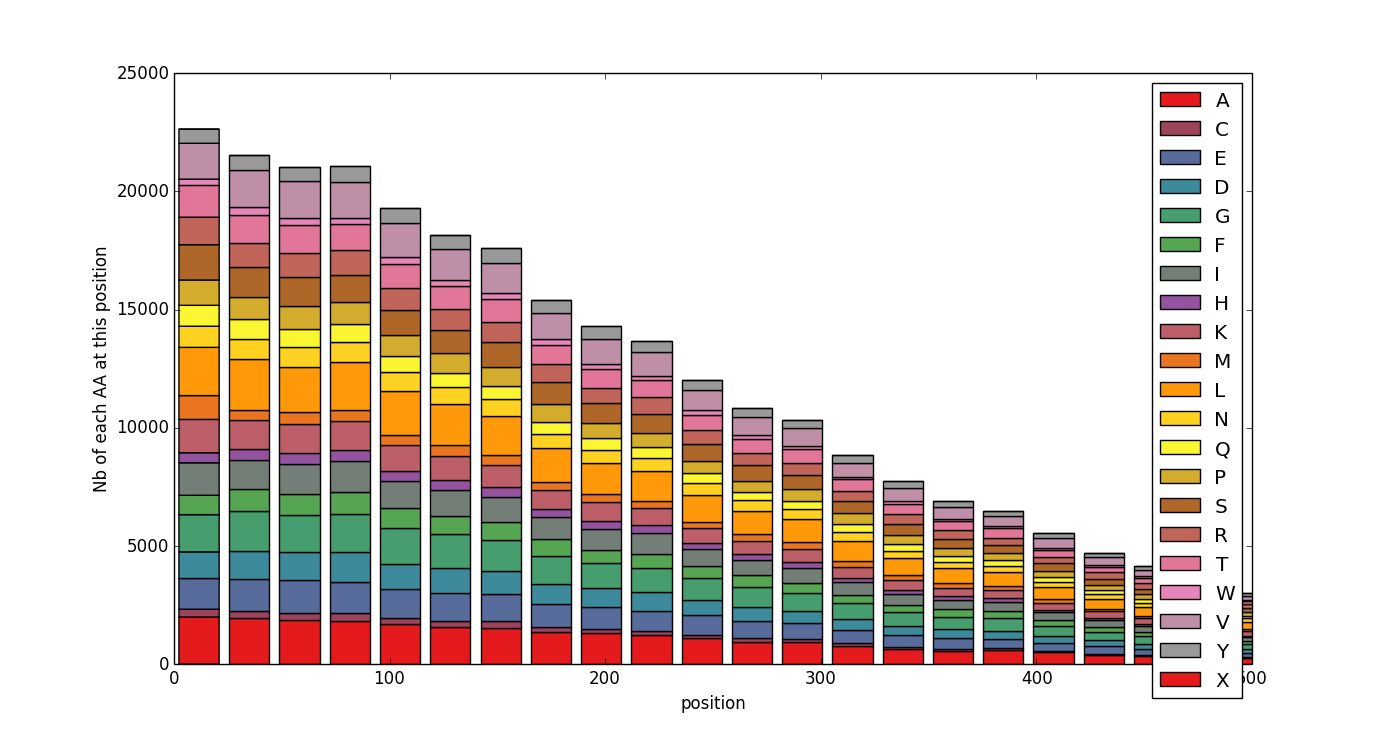
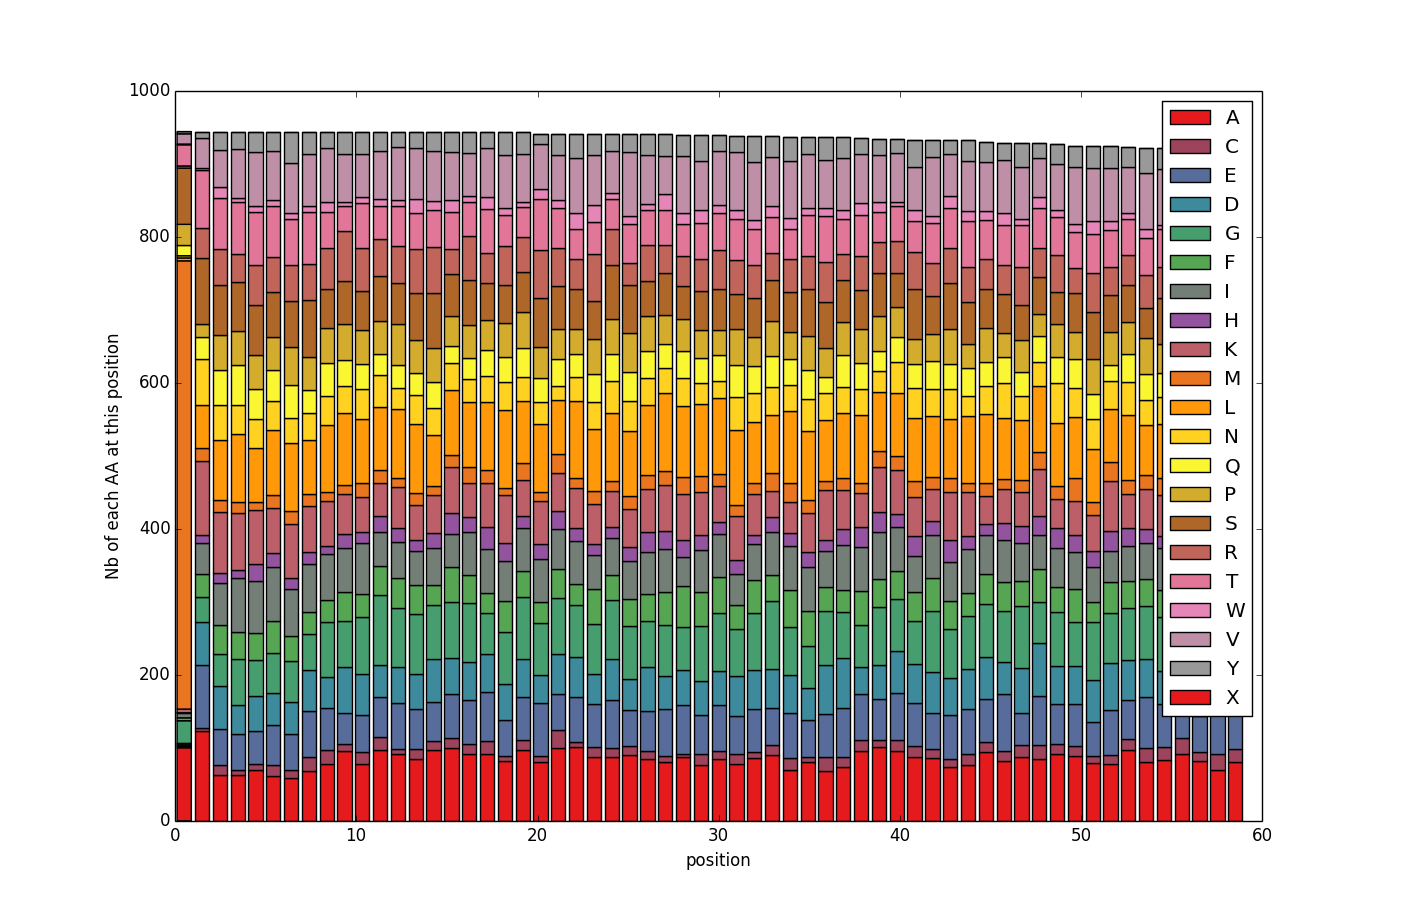
60 first amino acid of nonpeptide histogram

diff --git a/visualisation.py b/visualisation.py
@@ -29,7 +29,7 @@ def get_peptides(data):
 	# peptide_aa_seqs = np.array(peptide_aa_seqs)
 	indices = []
 	for seq in peptide_aa_seqs:
-		indices += [[idx,aa] for (idx,aa) in enumerate(seq)]
+		indices += [[idx,aa] for (idx,aa) in enumerate(seq[0:60])]
 	aa_dir = {}
 	for x in indices:
 		if x[1] not in aa_dir:
@@ -38,7 +38,7 @@ def get_peptides(data):
 
 	colormap = plt.cm.Set1 #I suggest to use nipy_spectral, Set1,Paired
 	plt.gca().set_color_cycle([colormap(i) for i in np.linspace(0, 1,20)])
-	plt.hist(aa_dir.values(), bins=500, histtype='bar', stacked=True, label=aa_dir.keys())
+	plt.hist(aa_dir.values(), bins=60, histtype='bar', stacked=True, label=aa_dir.keys())
 	plt.legend()
 	plt.xlim([0,60])
 	plt.xlabel('position')
@@ -88,8 +88,8 @@ if __name__ == '__main__':
 
 	    # cleavage_position_hist(peptide_trainingdata)
 	    # get_peptides(peptide_trainingdata)
-	    # get_peptides(nonpeptide_trainingdata)
+	    get_peptides(nonpeptide_trainingdata)
 	    # all_result = np.array([[1, 0.68205128205128207], [3, 0.7384615384615385], [5, 0.71794871794871795], [7, 0.74102564102564106], [9, 0.80769230769230771], [11, 0.84358974358974359], [13, 0.84743589743589742], [15, 0.84358974358974359], [17, 0.88846153846153841], [19, 0.88461538461538458], [21, 0.86923076923076925], [23, 0.88205128205128203], [25, 0.85897435897435892], [27, 0.86410256410256414], [29, 0.84743589743589742], [31, 0.84999999999999998], [33, 0.82692307692307687], [35, 0.8371794871794872], [37, 0.77051282051282055], [39, 0.81282051282051282], [41, 0.80512820512820515], [43, 0.79358974358974355], [45, 0.78974358974358971], [47, 0.78205128205128205], [49, 0.7615384615384615], [51, 0.77051282051282055], [53, 0.77307692307692311], [55, 0.76282051282051277], [57, 0.75128205128205128], [59, 0.77820512820512822]])
-	    tm_result = np.array([[1, 0.875], [3, 0.875], [5, 0.875], [7, 0.86250000000000004], [9, 0.88749999999999996], [11, 0.88749999999999996], [13, 0.88749999999999996], [15, 0.88749999999999996], [17, 0.90000000000000002], [19, 0.86250000000000004], [21, 0.875], [23, 0.875], [25, 0.94999999999999996], [27, 0.90000000000000002], [29, 0.90000000000000002], [31, 0.90000000000000002], [33, 0.86250000000000004], [35, 0.88749999999999996], [37, 0.86250000000000004], [39, 0.90000000000000002], [41, 0.88749999999999996], [43, 0.875], [45, 0.875], [47, 0.88749999999999996], [49, 0.875], [51, 0.875], [53, 0.875], [55, 0.88749999999999996], [57, 0.875], [59, 0.875]])
-	    nontm_result = np.array([[1, 0.71142857142857141], [3, 0.73285714285714287], [5, 0.75], [7, 0.79714285714285715], [9, 0.79571428571428571], [11, 0.8342857142857143], [13, 0.86142857142857143], [15, 0.88], [17, 0.88], [19, 0.91142857142857148], [21, 0.91285714285714281], [23, 0.91142857142857148], [25, 0.89142857142857146], [27, 0.89857142857142858], [29, 0.86285714285714288], [31, 0.85571428571428576], [33, 0.85857142857142854], [35, 0.85571428571428576], [37, 0.86142857142857143], [39, 0.83571428571428574], [41, 0.81428571428571428], [43, 0.81000000000000005], [45, 0.82571428571428573], [47, 0.7985714285714286], [49, 0.78857142857142859], [51, 0.78714285714285714], [53, 0.78142857142857147], [55, 0.7628571428571429], [57, 0.79285714285714282], [59, 0.79000000000000004]])
-	    result_plot(nontm_result)
+	    # tm_result = np.array([[1, 0.875], [3, 0.875], [5, 0.875], [7, 0.86250000000000004], [9, 0.88749999999999996], [11, 0.88749999999999996], [13, 0.88749999999999996], [15, 0.88749999999999996], [17, 0.90000000000000002], [19, 0.86250000000000004], [21, 0.875], [23, 0.875], [25, 0.94999999999999996], [27, 0.90000000000000002], [29, 0.90000000000000002], [31, 0.90000000000000002], [33, 0.86250000000000004], [35, 0.88749999999999996], [37, 0.86250000000000004], [39, 0.90000000000000002], [41, 0.88749999999999996], [43, 0.875], [45, 0.875], [47, 0.88749999999999996], [49, 0.875], [51, 0.875], [53, 0.875], [55, 0.88749999999999996], [57, 0.875], [59, 0.875]])
+	    # nontm_result = np.array([[1, 0.71142857142857141], [3, 0.73285714285714287], [5, 0.75], [7, 0.79714285714285715], [9, 0.79571428571428571], [11, 0.8342857142857143], [13, 0.86142857142857143], [15, 0.88], [17, 0.88], [19, 0.91142857142857148], [21, 0.91285714285714281], [23, 0.91142857142857148], [25, 0.89142857142857146], [27, 0.89857142857142858], [29, 0.86285714285714288], [31, 0.85571428571428576], [33, 0.85857142857142854], [35, 0.85571428571428576], [37, 0.86142857142857143], [39, 0.83571428571428574], [41, 0.81428571428571428], [43, 0.81000000000000005], [45, 0.82571428571428573], [47, 0.7985714285714286], [49, 0.78857142857142859], [51, 0.78714285714285714], [53, 0.78142857142857147], [55, 0.7628571428571429], [57, 0.79285714285714282], [59, 0.79000000000000004]])
+	    # result_plot(nontm_result)

diff --git a/modeltraining.py b/modeltraining.py
@@ -8,7 +8,7 @@ clf = RandomForestClassifier(n_estimators=10)
 # use a full grid over all parameters
 param_grid = {
 	"max_depth": [3,4,5,6, None],
-	"max_features": [1, 3, 5, 8, 10, 15, 20],
+	"max_features": [1, 3, 5, 8, 10, 15, 19],
 	"min_samples_split": [2, 5, 10],
 	"min_samples_leaf": [1, 3, 10],
 	"bootstrap": [True, False],
